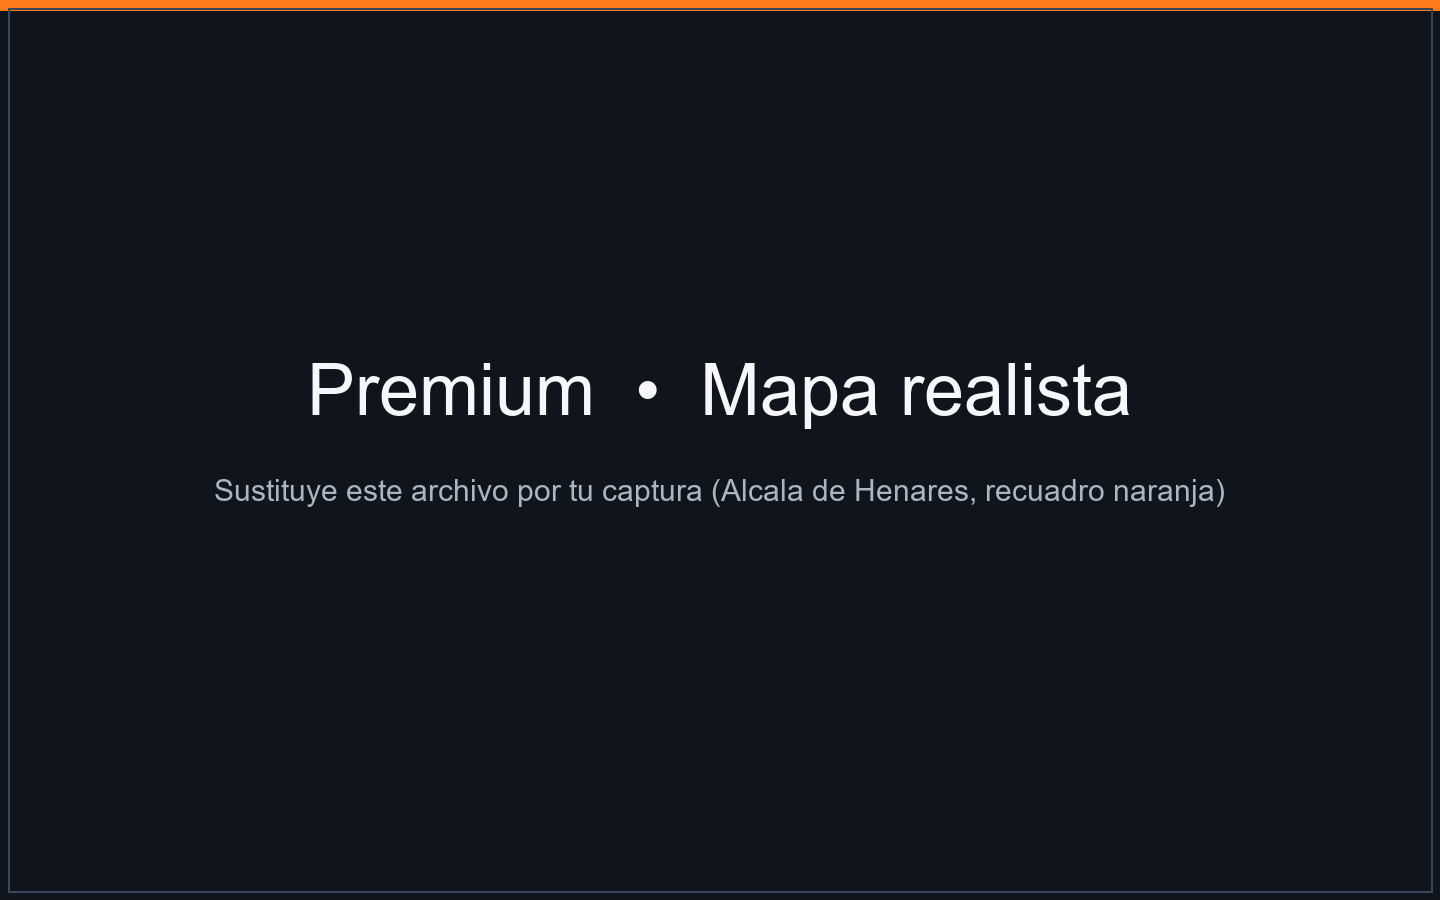
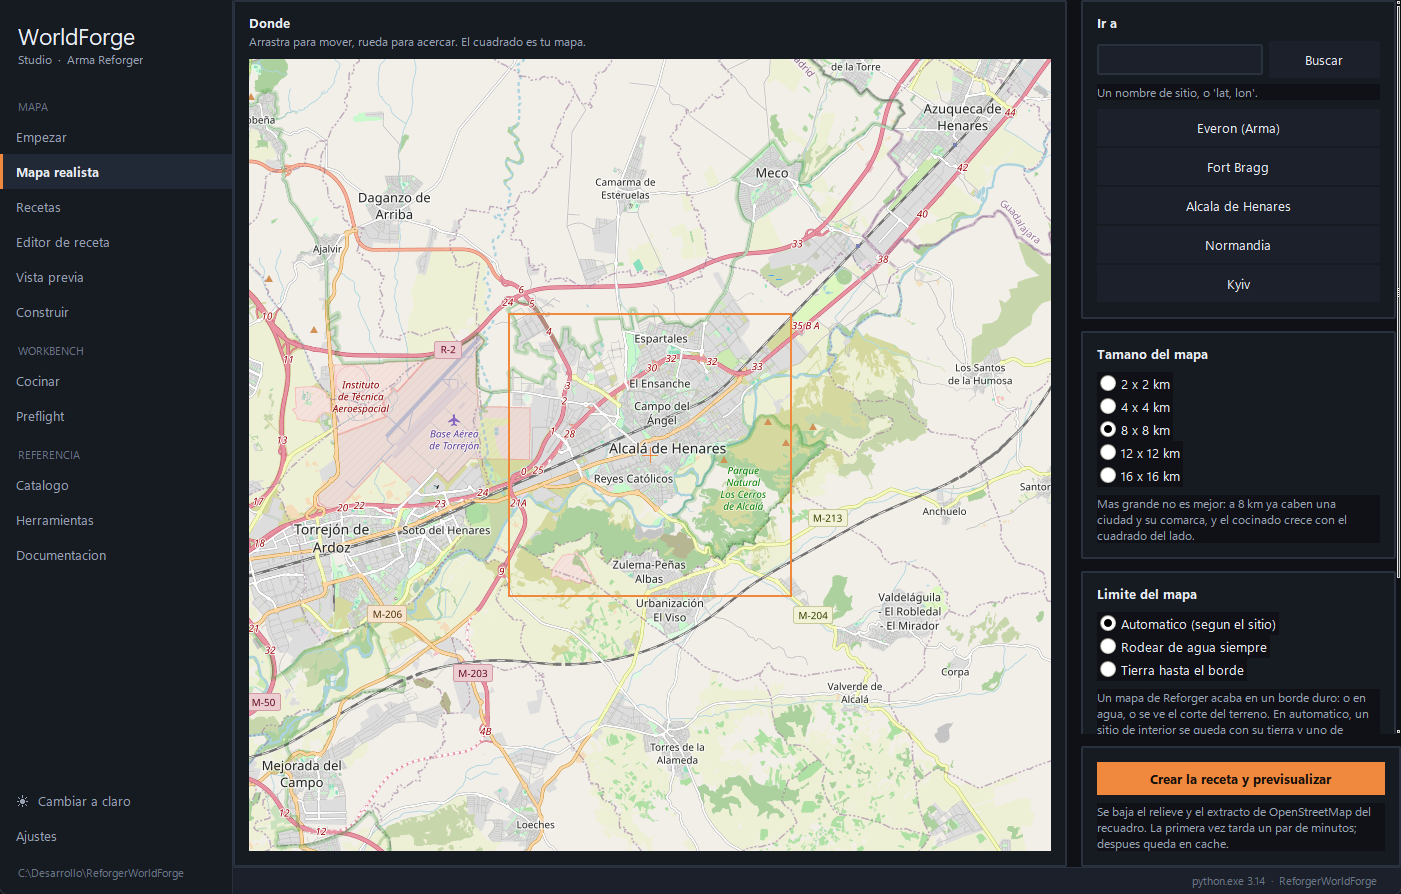
Capturas reales del programa (Standard + Premium) y textos actualizados

diff --git a/assets/images/README.md b/assets/images/README.md
@@ -1,15 +1,18 @@
 # Imágenes / Images
 
-Carpeta de capturas del README. / README screenshots folder.
+Capturas reales del programa (tema oscuro, ES). / Real program shots (dark theme, ES).
 
 | Fichero / File | Qué es / What | Estado / Status |
 |---|---|---|
-| `preview-procedural.png` | Ejemplo procedural 8 km / 8 km procedural example | ✅ incluido / included |
-| `premium-mapa-realista.png` | **Premium Mapa realista** (tu captura del chat: Alcalá de Henares, cuadrado naranja, panel Ir a/Tamaño/Límite) / **Premium Realistic map** (your chat screenshot) | ⚠ **PENDIENTE: guarda tu imagen aquí con este nombre** / save your image here with this name |
-| `standard-empezar.png` | Standard Empezar (5 caminos) / Standard Start | ⚠ pendiente / missing — haz captura de `WorldForge.exe` Standard / screenshot Standard `WorldForge.exe` |
-| `standard-editor.png` | Editor de receta procedural / Procedural recipe editor | ⚠ pendiente / missing |
-| `standard-preview.png` | Vista previa procedural / Procedural preview | ⚠ pendiente / missing |
-| `standard-build.png` | Construir + Preflight OK / Build + Preflight OK | ⚠ opcional / optional |
+| `hero-banner.png` | Cabecera del README / README header | ✅ marca / branded |
+| `preview-procedural.png` | Mapa procedural 8 km / 8 km procedural map | ✅ render real / real render |
+| `premium-mapa-realista.png` | Premium Mapa realista (Alcalá, recuadro naranja, Ir a/Tamaño/Límite) | ✅ captura real / real shot |
+| `standard-empezar.png` | Empezar, 5 caminos + etiquetas Premium | ✅ captura real / real shot |
+| `standard-recetas.png` | Recetas + detalle JSON | ✅ captura real / real shot |
+| `standard-editor.png` | Editor (Verdania cargada) | ✅ captura real / real shot |
+| `standard-preview.png` | Vista previa | ✅ captura real / real shot |
+| `standard-build.png` | Construir | ✅ captura real / real shot |
+| `standard-realista-bloqueado.png` | Lo que ve Standard en Mapa realista (cartel Premium) | ✅ captura real / real shot |
 
-Sugerencia: 1600×900 PNG, interfaz en ES para `*-es` y EN para mostrar idioma. No subas `.exe` ni `worldforge.lic`.
-Tip: 1600×900 PNG. Don't upload `.exe` or `worldforge.lic`.
+Regenerar: `py -3 tools/capturas_repo.py [standard|premium|todo]` desde `C:\Desarrollo\ReforgerWorldForge`.
+No subir `.exe` ni `worldforge.lic`.

diff --git a/README.es.md b/README.es.md
@@ -21,18 +21,19 @@ No copia el `.terr` de nadie: lo escribe entero desde cero con GUIDs propios que
 - **Todo el pipeline:** Vista previa, Construir, Cocinar (Workbench por CLI: shore map, ríos, generadores, `.topo`, navmesh triple, BSP), Preflight, Catálogo, Herramientas, Documentación.
 - **Biomas:** `everon`, `arland`, `montane`, `arid`, `texas`. Semilla fija todo (mismo JSON = mismo mapa byte a byte).
 
-📷 Pon aquí tus capturas Standard:
-- `assets/images/standard-empezar.png` — Empezar
-- `assets/images/standard-editor.png` — Editor de receta
+Capturas reales del programa (tema oscuro, en castellano):
+
+- `assets/images/standard-empezar.png` — Empezar (los 2 caminos Premium con etiqueta)
+- `assets/images/standard-recetas.png` — Recetas (plantillas + detalle JSON)
+- `assets/images/standard-editor.png` — Editor de receta (Verdania cargada)
 - `assets/images/standard-preview.png` — Vista previa
-- `assets/images/standard-build.png` — Construir / Preflight OK
+- `assets/images/standard-build.png` — Construir
+- `assets/images/standard-realista-bloqueado.png` — lo que ve Standard en Mapa realista (cartel Premium)
 
 ### Premium: mapa realista (elige la zona en el mapa)
 
 ![Premium mapa realista](assets/images/premium-mapa-realista.png)
-*Pantalla Mapa realista: arrastra para mover, rueda para acercar, el cuadrado naranja es tu mapa. Derecha: Ir a (buscador + Everon, Fort Bragg, Alcalá de Henares, Normandía, Kyiv), Tamaño (2×2 a 16×16 km), Límite (Automático / agua siempre / tierra al borde), botón “Crear la receta y previsualizar”.*
-
-*(Si la imagen no se ve, guarda tu captura como `assets/images/premium-mapa-realista.png`).*
+*Pantalla Mapa realista capturada del programa: arrastra para mover, rueda para acercar, el cuadrado naranja es tu mapa. Derecha: Ir a, Tamaño, Límite y “Crear la receta y previsualizar”.*
 
 - **Fuentes reales:** relieve Copernicus DEM, cobertura ESA WorldCover, carreteras + cauces + usos + huellas de edificios de OpenStreetMap (~10.000 casas en 8 km de ciudad, planta y giro reales). Satelital Sentinel-2 para el color.
 - **Tamaños:** 2×2, 4×4, 8×8 (recomendado), 12×12, 16×16 km. A 8 km ya cabe ciudad + comarca; cocinar crece con el cuadrado del lado.

diff --git a/README.en.md b/README.en.md
@@ -21,18 +21,19 @@ It doesn't copy anyone's `.terr`: it writes the whole thing from scratch with it
 - **Full pipeline:** Preview, Build, Cook (Workbench via CLI: shore map, rivers, generators, `.topo`, triple navmesh, BSP), Preflight, Catalog, Tools, Docs.
 - **Biomes:** `everon`, `arland`, `montane`, `arid`, `texas`. Seed fixes everything (same JSON = same map byte-for-byte).
 
-📷 Drop your Standard screenshots here:
-- `assets/images/standard-empezar.png` — Start
-- `assets/images/standard-editor.png` — Recipe editor
+Real program shots (dark theme, Spanish UI):
+
+- `assets/images/standard-empezar.png` — Start (2 Premium paths badged)
+- `assets/images/standard-recetas.png` — Recipes (templates + JSON detail)
+- `assets/images/standard-editor.png` — Recipe editor (Verdania loaded)
 - `assets/images/standard-preview.png` — Preview
-- `assets/images/standard-build.png` — Build / Preflight OK
+- `assets/images/standard-build.png` — Build
+- `assets/images/standard-realista-bloqueado.png` — what Standard shows on Realistic map (Premium card)
 
 ### Premium: realistic map (pick the area on the map)
 
 ![Premium realistic map](assets/images/premium-mapa-realista.png)
-*Realistic-map screen: drag to pan, wheel to zoom, orange square is your map. Right: Go-to (search + Everon, Fort Bragg, Alcalá de Henares, Normandy, Kyiv), Size (2×2 to 16×16 km), Edge (Automatic / always water / land to edge), “Create recipe and preview” button.*
-
-*(If broken, save your screenshot as `assets/images/premium-mapa-realista.png`).*
+*Realistic-map screen captured from the app: drag, wheel-zoom, orange square = your 2×2–16×16 km map → “Create recipe and preview”. Search + shortcuts.*
 
 - **Real sources:** Copernicus DEM elevation, ESA WorldCover, OpenStreetMap roads + waterways + landuse + building footprints (~10,000 houses over a city at 8 km, real footprint + rotation). Sentinel-2 color.
 - **Sizes:** 2×2, 4×4, 8×8 (recommended), 12×12, 16×16 km. 8 km already fits city + region; cooking scales with side².

diff --git a/README.md b/README.md
@@ -54,7 +54,8 @@ From a JSON recipe to a Workbench-ready addon: baked terrain, properly-profiled 
 - Biomas / Biomes: `everon`, `arland`, `montane`, `arid`, `texas`.
 
 ![Editor](assets/images/standard-editor.png)
-*Sustituye por tu captura del Editor + Preview / Replace with your Editor + Preview shot.*
+*Editor de receta con Verdania cargada: cada campo con ayuda, comprobación en vivo y resumen de lo que va a salir.*
+*Recipe editor with Verdania loaded: every field with help, live validation and build summary.*
 
 ### Premium — calca un sitio real
 
@@ -64,9 +65,6 @@ From a JSON recipe to a Workbench-ready addon: baked terrain, properly-profiled 
 *Realistic map: drag, wheel-zoom, orange square = your 2×2–16×16 km map → “Create recipe and preview”. Search + shortcuts.*
 
 Calca / Traces: Copernicus DEM + ESA WorldCover + OSM (carreteras, cauces, usos, **~10.000 casas en 8 km con planta y giro reales**). En Standard esta pantalla muestra cartel Premium y te manda a plantillas.
-
-> Para poner tu captura real, sobrescribe `assets/images/premium-mapa-realista.png` con la imagen del chat.
-> To use your real shot, overwrite `assets/images/premium-mapa-realista.png` with the chat image.
 
 ---
 
